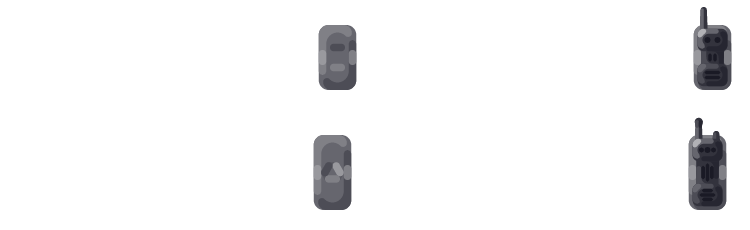
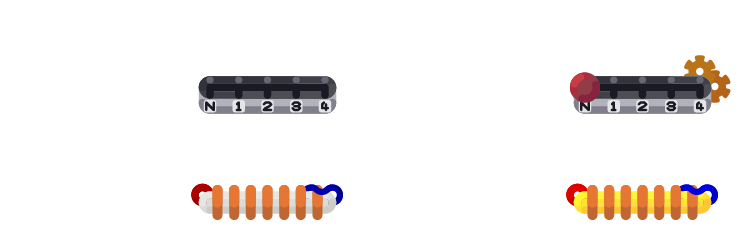
Add files via upload

Changed region(s): [[0.736, 0.0304, 0.9813, 0.9739], [0.2453, 0.0913, 0.4907, 0.5174], [0.2453, 0.5783, 0.4907, 0.9739]]

diff --git a/Power_ing.h b/Power_ing.h
@@ -10,20 +10,23 @@
 extern HINSTANCE g_hInst;
 extern LPCTSTR lpszClass, lpszWindowName;
 
-extern const bool debug, keyboard;
+extern const bool debug, keyboard, ChargedMod;
+
+extern int Reflector1Left, Reflector1Right, Reflector1Up, Reflector1Down, Player1RGB[3], Player1Charge[3];
+
 extern const double window_size, window_half, window_size_x, window_size_y, Pibot_x, Pibot_y;
 
 extern const double Reactor_size, Rail_size, Orb_size;
 extern const double Controllroom_size_x, Reflector_size_x;
 extern const double Controllroom_size_y, Reflector_size_y;
 
-extern const double Reactor_window, Rail_window, Orb_window;
-extern const double Controllroom_window_x, Reflector_window_x;
-extern const double Controllroom_window_y, Reflector_window_y;
+extern const int Reactor_window, Rail_window, Orb_window;
+extern const int Controllroom_window_x, Reflector_window_x;
+extern const int Controllroom_window_y, Reflector_window_y;
 
-extern const double Reactor_half, Rail_half, Orb_half;
-extern const double Controllroom_half_x, Reflector_half_x;
-extern const double Controllroom_half_y, Reflector_half_y;
+extern const int Reactor_half, Rail_half, Orb_half;
+extern const int Controllroom_half_x, Reflector_half_x;
+extern const int Controllroom_half_y, Reflector_half_y;
 
 extern HDC hdc, memdc;
 extern HBITMAP hBitmap;
@@ -37,7 +40,7 @@ BOOL CALLBACK Dlalog_Proc(HWND hDlg, UINT iMsg, WPARAM wParam, LPARAM lParam);
 //--------------------------------------------------------------------------------------------------------------//
 struct Power_Cherenkov
 {
-	bool cherenkov;
+	bool cherenkov, levertrigger;
 	int meter, counter, lever;
 };
 struct Power_Effect
@@ -58,13 +61,14 @@ struct Power_Orb
 struct Power_Reflector
 {
 	double angle, position, size, speed;
-	int module[5], age, effect;
+	int module[5], module_priority[3], age, effect;
+	bool module_charged[5];
 	// 0.1 - accellator, 0.2 - deccellator || 1.1 double 1.2 triple || 2.1 spliter, 2.2 launcher || 3.1 gear, 3.2 magnet || 4.1 reserver, 4.2  // 
 	struct Power_Reflector* next;
 };
 extern bool GameStart;
 extern double Score, Temperture, Mole;
-extern int Time, PreTime, ReactorEffect, Button[5];
+extern int Time, PreTime, ReactorEffect, Button[5], OrbType;
 extern struct Power_Cherenkov Cherenkov;
 extern struct Power_Orb* OrbHead;
 extern struct Power_Reflector* ReflectorHead;
@@ -72,7 +76,6 @@ extern struct Power_Reflector* ReflectorHead;
 void CherenkovCheck();
 void GeneralReset();
 void GameRestart();
-void GameOver();
 void ButtonActive();
 //--------------------------------------------------------------------------------------------------------------//
 bool PressureCheck();
@@ -80,17 +83,18 @@ bool PressureCheck();
 struct Power_Orb* OrbPosition(struct Power_Orb* Orb);
 struct Power_Orb* OrbSpeed(struct Power_Orb* Orb);
 void CollisionDetect(struct Power_Orb* Orb);
-void OrbCreate(struct Power_Orb* Orb, int Type, double x, double y, double Angle);
+bool OrbMajorCheck(struct Power_Orb* Orb);
+void OrbCreate(struct Power_Orb* Orb, int Type, bool Major, double x, double y, double Angle);
 void OrbRemove(struct Power_Orb* NextOrb, struct Power_Orb* Orb);
 void OrbClear(struct Power_Orb* Orb);
-struct Power_Orb* OrbApply(struct Power_Orb* Orb, int Type, double x, double y, double Angle);
+struct Power_Orb* OrbApply(struct Power_Orb* Orb, int Type, bool Major, double x, double y, double Angle);
 //--------------------------------------------------------------------------------------------------------------//
 void ReflectDetect(struct Power_Orb* Orb, struct Power_Reflector* Reflector);
 void ReflectReflector(struct Power_Orb* Orb, struct Power_Reflector* Reflector);
 struct Power_Orb* ReflectReflectorOrb(struct Power_Orb* Orb, struct Power_Reflector* Reflector);
 struct Power_Orb* ReflectOrb(struct Power_Orb* Orb, double Angle);
 //--------------------------------------------------------------------------------------------------------------//
-void ReflectorPosition(struct Power_Reflector* Reflector, bool Left, bool Right, bool Up, bool Down);
+void ReflectorPosition(struct Power_Reflector* Reflector, short Left, short Right, short Up, short Down);
 void ReflectorCreate(struct Power_Reflector* Reflector, int Count);
 void ReflectorRemove(struct Power_Reflector* NextReflector, struct Power_Reflector* Reflector);
 void ReflectClear(struct Power_Reflector* Reflector);
@@ -101,8 +105,10 @@ struct Power_Reflector* ReflectorApply(struct Power_Reflector* Reflector, int Co
 // Power_Display
 // 
 //--------------------------------------------------------------------------------------------------------------//
-extern CImage ReactorImg, ReflectorImg, OrbImg, PressureImg, CherenkovImg, Reactor_EffectImg, Reflector_EffectImg, Reflector_Mask_Img, Reflector_Effect_Mask_Img;
-extern CImage Button_PressureImg, Button_DialImg, Button_ValveImg, Button_OrbImg, Cherenkov_LeverImg, TempertureImg, DoorImg, Orb_After_Img;
+extern CImage ReactorImg, Reactor_EffectImg, ReflectorImg, Reflector_EffectImg, OrbImg, PressureImg, CherenkovImg;
+extern CImage Reflector_Mask_Img, Reflector_Effect_Mask_Img, Reflector_Color_Mask_Img, Reflector_Light_Mask_Img;
+extern CImage Reactor_RailImg, Reflector_ColorImg, Reflector_LightImg, Reflector_ColorChargeImg, Reflector_LightChargeImg, Reflector_ColorOffImg, Reflector_LightOffImg;
+extern CImage Button_PressureImg, Button_DialImg, Button_ValveImg, Button_OrbImg, Cherenkov_LeverImg, TempertureImg, DoorImg;
 extern CImage Pressure_Mask_Img, Cherenkov_Mask_Img, Button_Valve_Mask_Img, Button_Dial_Mask_Img, Temperture_Mask_Img;
 extern CImage Reflector_Module1_Img, Reflector_Module2_Img, Reflector_Module3_Img, Reflector_Module4_Img, Reflector_Module5_Img;
 extern CImage Reflector_Module1_Mask_Img, Reflector_Module2_Mask_Img, Reflector_Module3_Mask_Img, Reflector_Module4_Mask_Img, Reflector_Module5_Mask_Img;
@@ -113,6 +119,7 @@ void RemoveEffect(struct Power_Effect* Effect, struct Power_Effect* NextEffect);
 void EffectPrint(struct Power_Effect* Effect);
 //--------------------------------------------------------------------------------------------------------------//
 void DisplayLoad();
+void DisplayColorApply();
 void Display();
 //--------------------------------------------------------------------------------------------------------------//
 void DisplayOrb(struct Power_Orb* Orb);
